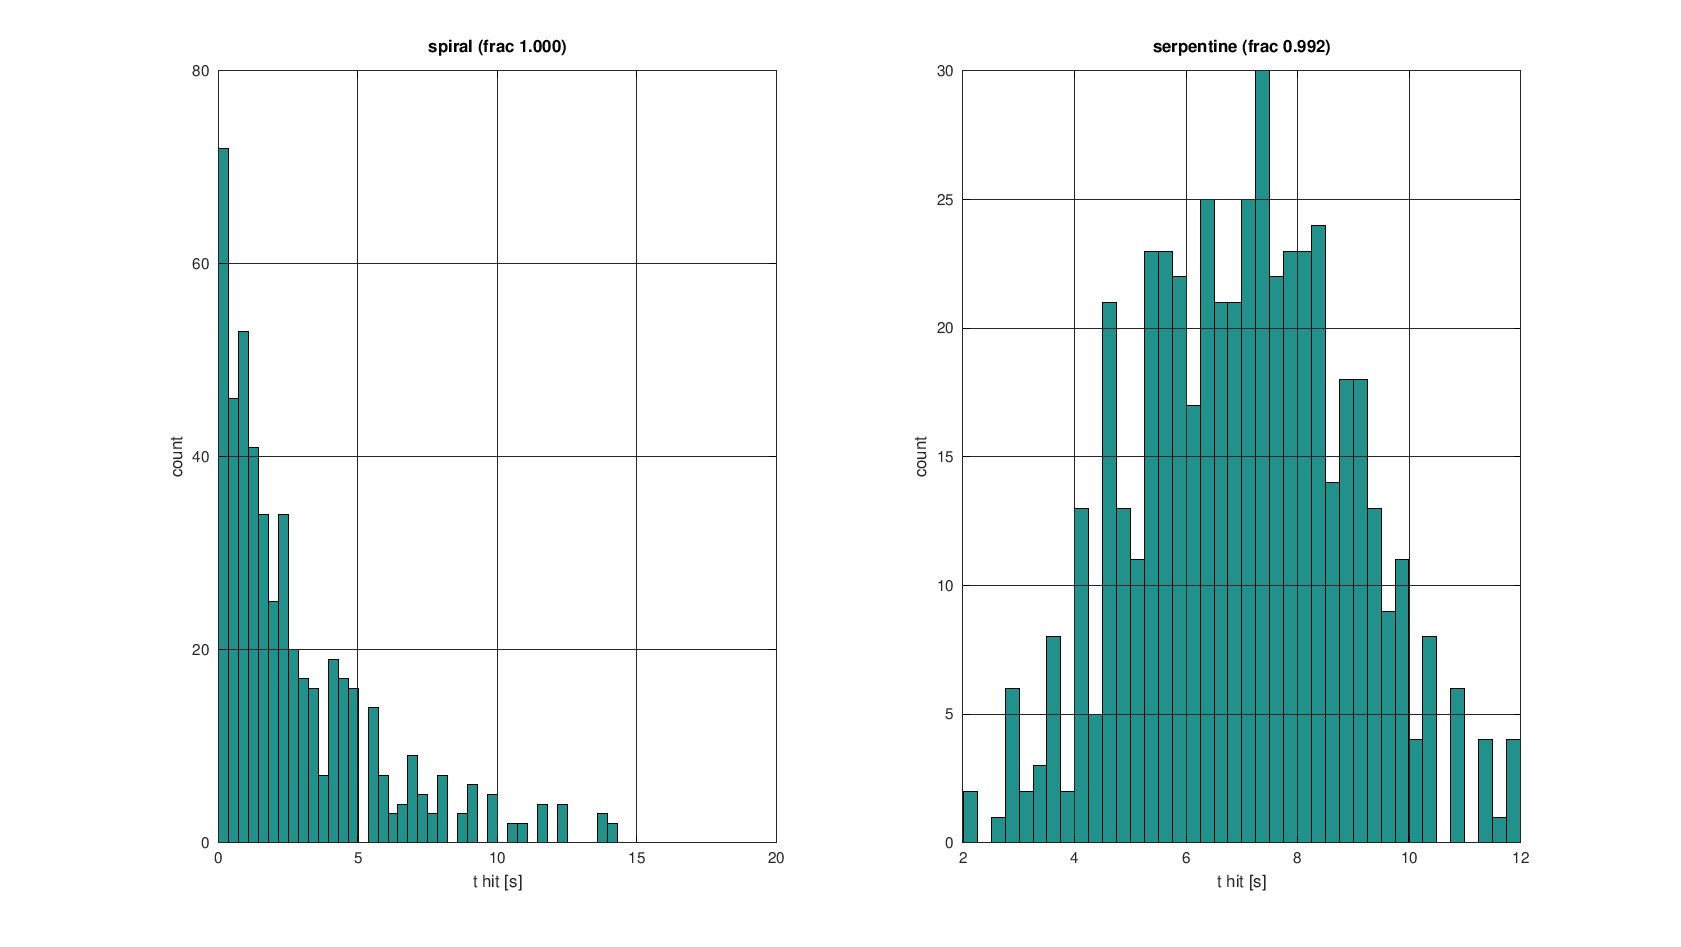
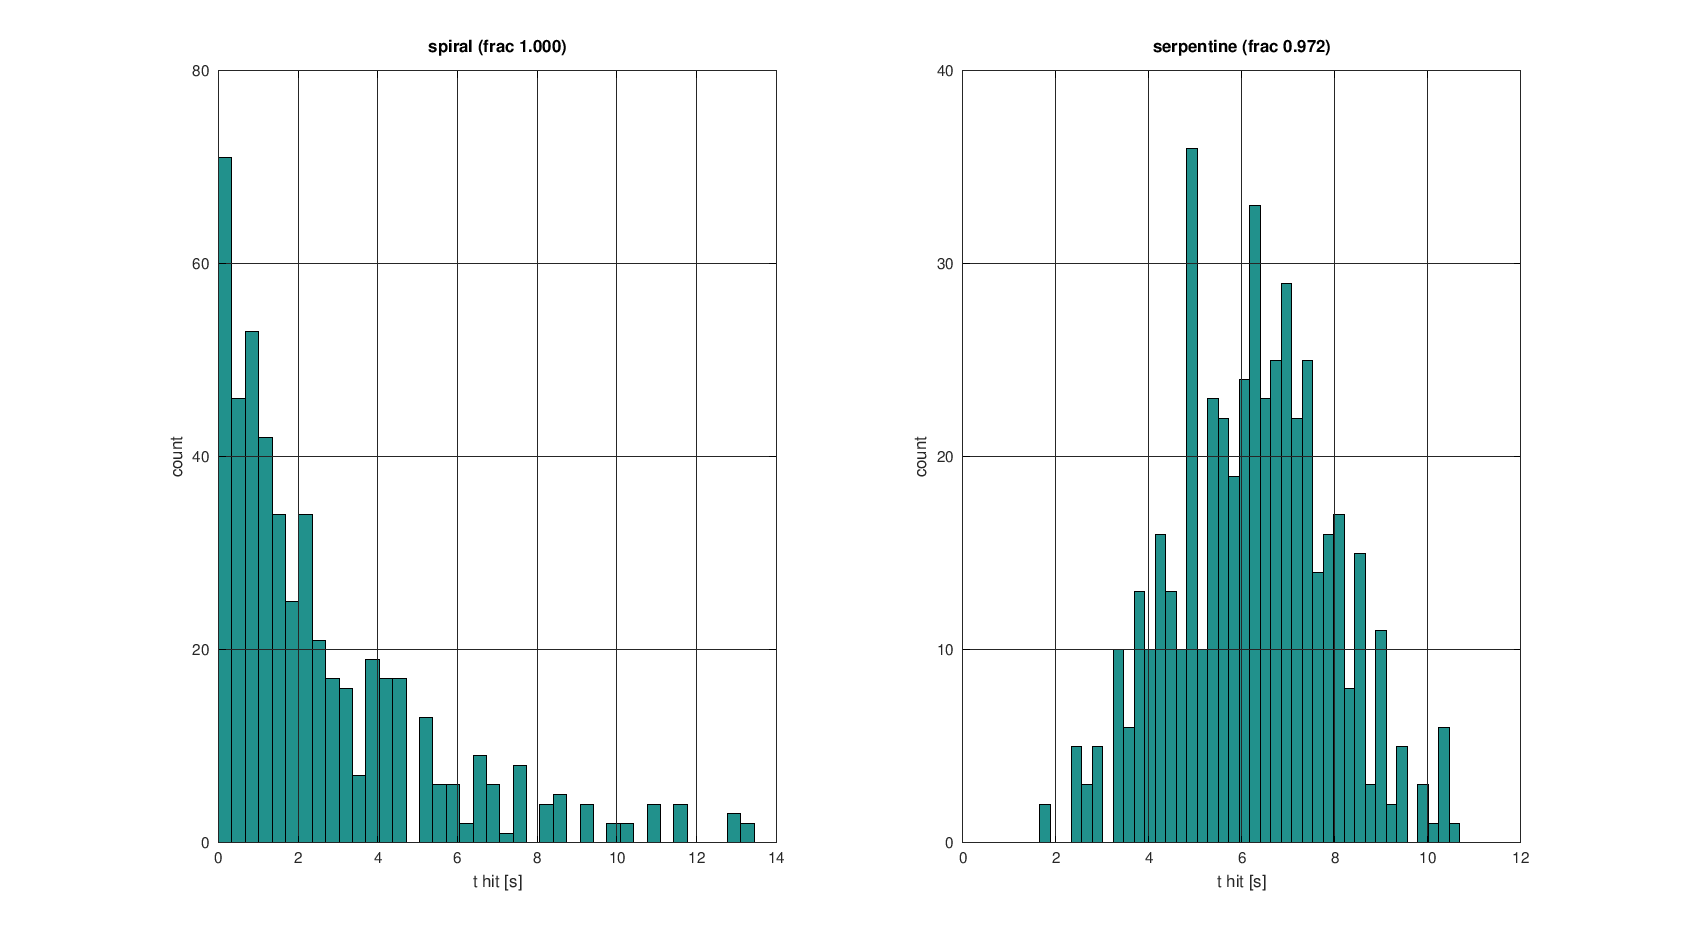
Re-run against the feasible baseline and document dwell vs actuator
Final numbers with both patterns held to the same actuator limits:
  spiral      t_ref 8.63 s, J_x 0.0270, J_u 0.7555
  serpentine  (1,0) speedup 0.894 [0.856, 0.905], J_x 0.106, J_u 0.253
              (1,1) J_u 0.080 but never reaches the 95% reference

The ranking is unchanged. The old violation sat at the traverse end while
t_ref is reached at 8.6-9.2 s, so the coverage result never depended on it;
matching the budgets makes the spiral faster, not slower.

README also documents the conceptual split the code had blurred: actuator
(w_max, sqrt(a_max*R_curv)) is what the mount can do and is a hard
constraint; dwell (2*r_beam*f) is what the shot rate can tile and only costs
coverage gaps. Both reduce to a speed cap, which is why they were easy to
conflate, but they separate cleanly in the area coverage rate. Here the
centripetal term binds at 0.884 deg/s against a 5.56 deg/s dwell cap, so the
crossover is at 79.6 Hz and the whole 100-2000 Hz sweep is actuator-limited.

Claude-Session: https://claude.ai/code/session_01Gmy9PgM4MAjvBkpDpE8Si6

Changed region(s): [[0.5568, 0.0612, 0.928, 0.9187], [0.1237, 0.3369, 0.464, 0.8881], [0.1237, 0.1531, 0.1547, 0.1837]]

diff --git a/README.md b/README.md
@@ -653,3 +653,84 @@ the pass.
 * `dt_prop = 2 h` rather than 6 h, for the reason given above.
 * One pass geometry (peak elevation 60 deg). The conclusion that centre-out
   ordering suits a Gaussian cloud is general; the exact speedup is not.
+
+### Correction — the baseline was not held to the actuator limit
+
+The numbers above were produced with a spiral that **violated the
+acceleration limit**. The serpentine passed `dacq_objective`'s feasibility
+test on every evaluation; the spiral was built by `dacq_spiral` with its own
+internal speed caps and never went through that test:
+
+| | max abs acc [deg/s^2] | viol |
+|---|---|---|
+| serpentine best | 4.29 / 2.17 | 0.000 |
+| spiral (old) | 144 / 185 | 35.9 |
+
+`v <= sqrt(a*R_curv)` bounds only the **centripetal** term and leaves the
+tangential term free; the traverse then ended by setting the speed to zero in
+one sample, a velocity step. Two further layers appeared while fixing it: a
+forward-backward profile bounding the total acceleration fixed the physics but
+not the sampling (near the end one theta node spans ~47 dwell samples, so
+linear interpolation holds the speed constant inside the node and kinks at its
+edge), and marching arclength against a fixed s-grid quantised theta into a
+staircase near the centre. The working version marches theta itself forward in
+time on the dwell grid and brakes at the actuator limit:
+max abs acc 4.52 deg/s^2, viol 0.000.
+
+**Re-run against the feasible, budget-matched baseline** (4 trials x 2 starts
+x 700 evals):
+
+| | frac | t_reach [s] | speedup | J_x | J_u |
+|---|---|---|---|---|---|
+| conventional spiral | 1.000 | **8.63** | 1.00 | **0.0270** | 0.7555 |
+| serpentine (1,0) | 0.969 | 9.65 [9.45, 9.76] | **0.894** [0.856, 0.905] | 0.106 | 0.253 |
+| serpentine (1,1) | 0.935 | never reaches 95 % | — | 0.151 | **0.080** |
+
+The conclusion is unchanged, and for a reason worth stating: the violation sat
+at the traverse end (t = 16.4 s) while the reported `t_ref` is 8.6-9.2 s, so
+the coverage result never depended on it. Holding the spiral to the *same*
+budget the serpentine gets makes it **faster** (9.20 -> 8.63 s), so the
+serpentine's speedup falls slightly, 0.90 -> 0.89. The control-effort contrast
+widens: 0.7555 vs 0.080, a factor of 9.4.
+
+### Dwell limit vs actuator limit — they are different things
+
+They were easy to conflate because all three caps reduce to a speed:
+
+```
+v_max = min( w_max , sqrt(a_max * R_curv) , 2*r_beam*f_dwell )
+        \___________ actuator ___________/   \___ dwell ___/
+```
+
+* **Actuator** — what the *mount* can do. Continuous-time, a hard constraint:
+  violating it is physically impossible. Note it is not only `w_max`: holding
+  a curve of radius `R` costs centripetal acceleration `v^2/R`, so
+  `v <= sqrt(a_max*R)`.
+* **Dwell** — what the *shot rate* can tile. Discrete: violating it is
+  perfectly possible, it just leaves gaps between consecutive footprints.
+
+The distinction is sharpest in the area coverage rate. With footprint spacing
+`d = v/f`:
+
+```
+d <= 2*r_beam  (overlapping) : rate = 2*r_beam*v        -- faster v helps
+d >  2*r_beam  (separated)   : rate = f*pi*r_beam^2     -- faster v does nothing
+=> rate = 2*r_beam * min( v_actuator , 2*r_beam*f_dwell )
+```
+
+so **dwell-limited** means rate grows with `f`, and **actuator-limited** means
+raising `f` buys nothing at all. Measured here:
+
+| cap | value |
+|---|---|
+| actuator, centripetal at `Om_max` | **0.884 deg/s** (binds) |
+| actuator, slew `w_max` | 10.0 deg/s |
+| dwell, `2*r_beam*f` at 500 Hz | 5.556 deg/s |
+| crossover `f = v_act/(2*r_beam)` | **79.6 Hz** |
+
+Above ~80 Hz the problem is actuator-limited, which is why the whole
+100-2000 Hz sweep came back "centripetal" with `t_conv` flat at 16 s. That is
+a property of this scenario, not a bug. The decisive term is the centripetal
+one: slew never binds, but rounding a 684 arcsec (0.19 deg) circle at
+5 deg/s^2 caps the speed near 1 deg/s, more than 10x below the slew limit.
+The spec's two-way dwell/slew classification has no room for it.
